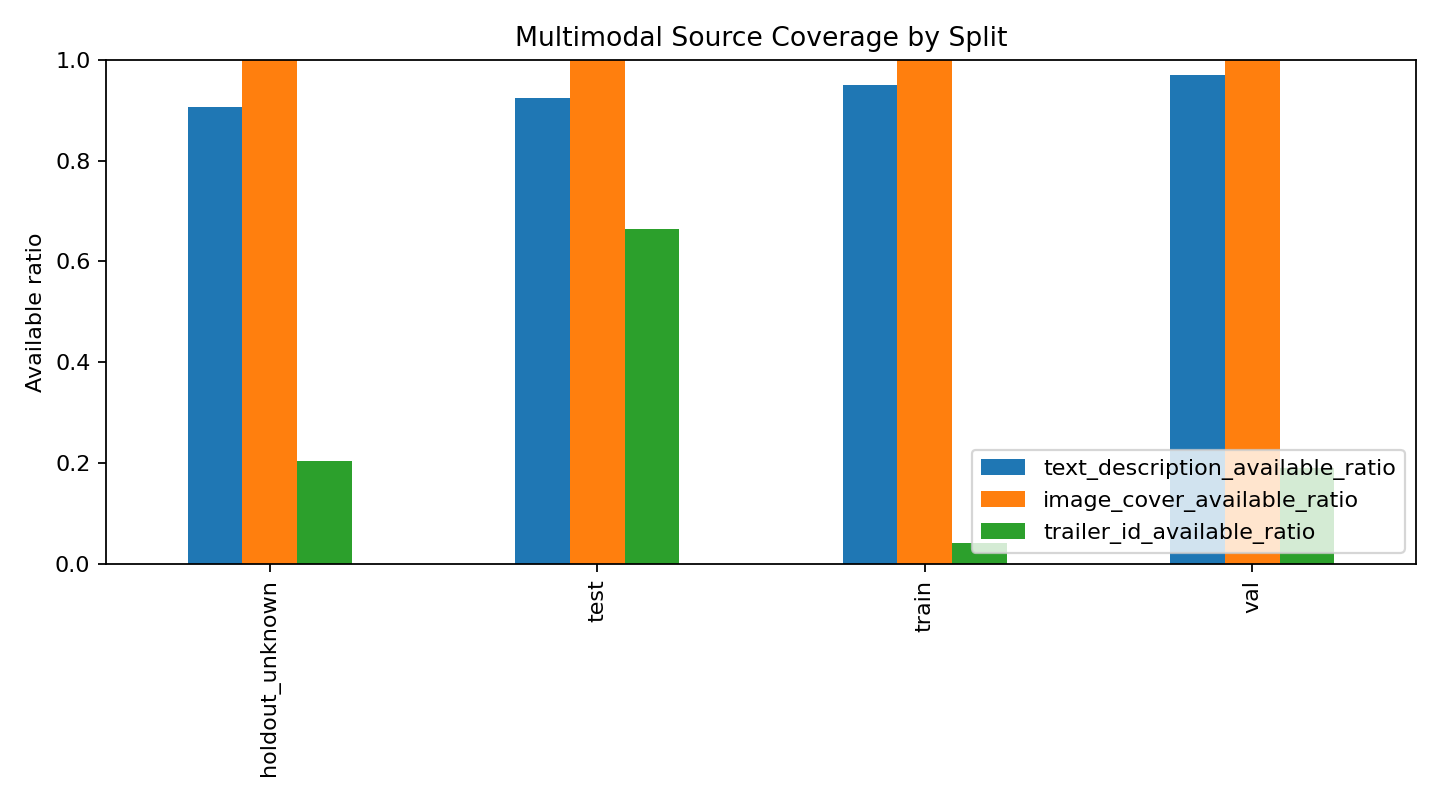
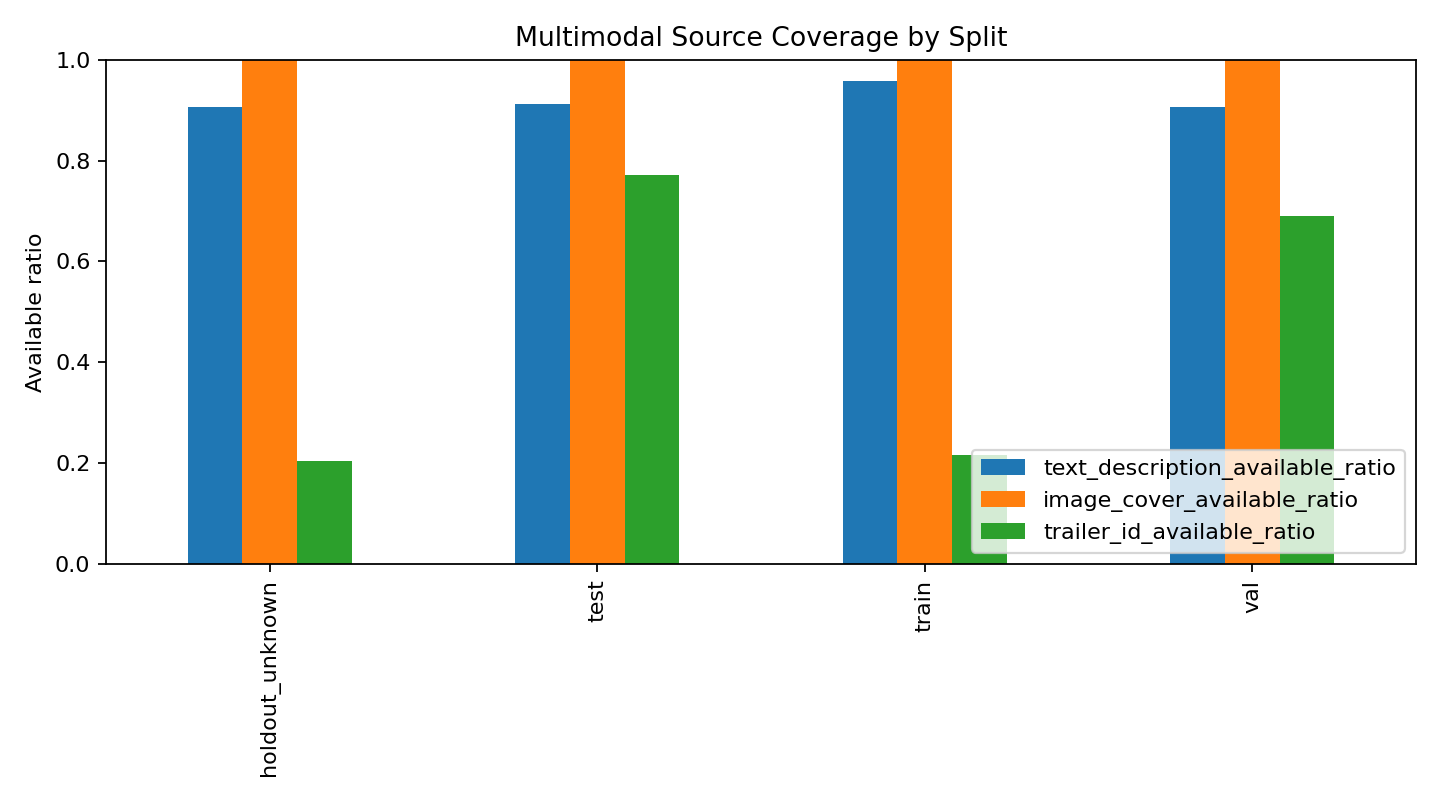
fix(split): rebalance temporal splits by cumulative sample counts
1. Replace quarter-count slicing with chronological cumulative-row splitting to target 70/15/15 proportions without time leakage.
2. Regenerate processed metadata and EDA summaries to reflect the new split strategy and updated distribution diagnostics.
3. Refresh affected RQ figures so split-balance and multimodal-coverage charts match the corrected partitioning.

Made-with: Cursor

diff --git a/scripts/build_processed_dataset.py b/scripts/build_processed_dataset.py
@@ -172,25 +172,47 @@ def _add_popularity_quarter_target(df: pd.DataFrame) -> dict:
 def _apply_pre_release_temporal_split(df: pd.DataFrame) -> dict:
     known = df[df["release_year"].notna() & df["release_quarter"].notna()].copy()
     known["quarter_index"] = known["release_year"].astype(int) * 10 + known["release_quarter"].astype(int)
-    unique_quarters = sorted(known["quarter_index"].dropna().unique().tolist())
-
-    if not unique_quarters:
+    quarter_counts = (
+        known.groupby("quarter_index", as_index=False)
+        .size()
+        .sort_values("quarter_index")
+        .reset_index(drop=True)
+    )
+    if quarter_counts.empty:
         df["split_pre_release"] = "unknown"
-        return {"train_quarters": 0, "val_quarters": 0, "test_quarters": 0}
+        return {
+            "strategy": "chronological_cumulative_rows",
+            "train_quarters": 0,
+            "val_quarters": 0,
+            "test_quarters": 0,
+        }
 
-    total = len(unique_quarters)
-    train_n = max(1, int(total * SPLIT_RATIOS["train"]))
-    val_n = max(1, int(total * SPLIT_RATIOS["val"]))
-    if train_n + val_n >= total:
-        val_n = 1
-        train_n = max(1, total - 2)
-    test_n = max(1, total - train_n - val_n)
-    if train_n + val_n + test_n > total:
-        test_n = total - train_n - val_n
+    total_rows = int(quarter_counts["size"].sum())
+    quarter_counts["cumsum_rows"] = quarter_counts["size"].cumsum()
+    quarter_counts["cumsum_ratio"] = quarter_counts["cumsum_rows"] / max(total_rows, 1)
 
-    train_quarters = set(unique_quarters[:train_n])
-    val_quarters = set(unique_quarters[train_n : train_n + val_n])
-    test_quarters = set(unique_quarters[train_n + val_n :])
+    train_cut = SPLIT_RATIOS["train"]
+    val_cut = SPLIT_RATIOS["train"] + SPLIT_RATIOS["val"]
+
+    train_mask = quarter_counts["cumsum_ratio"] <= train_cut
+    if not train_mask.any():
+        train_mask.iloc[0] = True
+    train_end_idx = quarter_counts[train_mask].index.max()
+
+    val_mask = (quarter_counts.index > train_end_idx) & (quarter_counts["cumsum_ratio"] <= val_cut)
+    if not val_mask.any() and train_end_idx + 1 < len(quarter_counts):
+        val_mask.iloc[train_end_idx + 1] = True
+    val_end_idx = quarter_counts[val_mask].index.max() if val_mask.any() else train_end_idx
+
+    train_quarters = set(quarter_counts.loc[:train_end_idx, "quarter_index"].tolist())
+    val_quarters = set(quarter_counts.loc[train_end_idx + 1 : val_end_idx, "quarter_index"].tolist())
+    test_quarters = set(quarter_counts.loc[val_end_idx + 1 :, "quarter_index"].tolist())
+
+    if not test_quarters and val_quarters:
+        # Keep chronological integrity while ensuring non-empty test split.
+        last_val = max(val_quarters)
+        val_quarters.remove(last_val)
+        test_quarters.add(last_val)
 
     df["split_pre_release"] = "unknown"
     df.loc[known.index, "split_pre_release"] = "test"
@@ -205,9 +227,11 @@ def _apply_pre_release_temporal_split(df: pd.DataFrame) -> dict:
     )
 
     return {
+        "strategy": "chronological_cumulative_rows",
         "train_quarters": len(train_quarters),
         "val_quarters": len(val_quarters),
         "test_quarters": len(test_quarters),
+        "target_ratios": SPLIT_RATIOS,
         "split_counts": [
             {"split": str(row["split"]), "count": int(row["count"])}
             for _, row in split_counts.iterrows()

diff --git a/data/eda/rq_eda_summary.md b/data/eda/rq_eda_summary.md
@@ -1,6 +1,6 @@
 # RQ-oriented EDA Summary
 
-- Generated at (UTC): `2026-04-23T08:05:51.662201+00:00`
+- Generated at (UTC): `2026-04-23T08:32:08.980843+00:00`
 - Raw rows: `20324`
 - Processed rows: `20324`
 
@@ -16,15 +16,15 @@
 - Genres available ratio: `1.0`
 - Studios non-empty ratio: `0.8137669750049203`
 - Genres non-empty ratio: `0.8686282227907892`
-- Split `test` rows: `9110`
-- Split `val` rows: `5440`
-- Split `train` rows: `4831`
+- Split `train` rows: `13376`
+- Split `test` rows: `3087`
+- Split `val` rows: `2918`
 - Split `holdout_unknown` rows: `943`
 
 ### Popularity Bucket Balance by Split
-- `test`: {'cold_0_25': 0.24785949506037322, 'hot_50_75': 0.24939626783754115, 'top_75_100': 0.25170142700329307, 'warm_25_50': 0.25104281009879253}
-- `train`: {'cold_0_25': 0.23369902711653903, 'hot_50_75': 0.24259987580211137, 'top_75_100': 0.26950941833988823, 'warm_25_50': 0.25419167874146137}
-- `val`: {'cold_0_25': 0.24669117647058825, 'hot_50_75': 0.24926470588235294, 'top_75_100': 0.253125, 'warm_25_50': 0.2509191176470588}
+- `test`: {'cold_0_25': 0.24813735017816652, 'hot_50_75': 0.2491091674765144, 'top_75_100': 0.2520246193715581, 'warm_25_50': 0.25072886297376096}
+- `train`: {'cold_0_25': 0.24222488038277512, 'hot_50_75': 0.24686004784688995, 'top_75_100': 0.258747009569378, 'warm_25_50': 0.25216806220095694}
+- `val`: {'cold_0_25': 0.24777244688142563, 'hot_50_75': 0.24982864976010966, 'top_75_100': 0.25119945167923236, 'warm_25_50': 0.25119945167923236}
 
 ## RQ2 Proxy (Multimodal Readiness)
 
@@ -34,6 +34,6 @@
 
 ### Multimodal Coverage by Split
 - `holdout_unknown`: {'text_description_available_ratio': 0.9066808059384942, 'image_cover_available_ratio': 1.0, 'trailer_id_available_ratio': 0.2046659597030753}
-- `test`: {'text_description_available_ratio': 0.9237102085620198, 'image_cover_available_ratio': 1.0, 'trailer_id_available_ratio': 0.6647639956092206}
-- `train`: {'text_description_available_ratio': 0.9507348375077623, 'image_cover_available_ratio': 1.0, 'trailer_id_available_ratio': 0.04160629269302422}
-- `val`: {'text_description_available_ratio': 0.9694852941176471, 'image_cover_available_ratio': 1.0, 'trailer_id_available_ratio': 0.19117647058823528}
+- `test`: {'text_description_available_ratio': 0.9115646258503401, 'image_cover_available_ratio': 1.0, 'trailer_id_available_ratio': 0.7719468739876904}
+- `train`: {'text_description_available_ratio': 0.9586572966507177, 'image_cover_available_ratio': 1.0, 'trailer_id_available_ratio': 0.21680622009569378}
+- `val`: {'text_description_available_ratio': 0.9064427690198766, 'image_cover_available_ratio': 1.0, 'trailer_id_available_ratio': 0.6901987662782728}

diff --git a/data/eda/target_engineering_summary.md b/data/eda/target_engineering_summary.md
@@ -12,19 +12,19 @@
 
 ## Temporal Pre-release Split
 
-- Train quarters: `209`
-- Val quarters: `44`
-- Test quarters: `46`
-- `test` rows: 9110
-- `val` rows: 5440
-- `train` rows: 4831
+- Train quarters: `269`
+- Val quarters: `14`
+- Test quarters: `16`
+- `train` rows: 13376
+- `test` rows: 3087
+- `val` rows: 2918
 - `unknown` rows: 943
 
 ## Unknown Split Policy
 
 - Policy: `exclude_unknown_from_model_splits`
 - Excluded unknown rows from model splits: `943`
-- Effective `test` rows: 9110
-- Effective `val` rows: 5440
-- Effective `train` rows: 4831
+- Effective `train` rows: 13376
+- Effective `test` rows: 3087
+- Effective `val` rows: 2918
 - Effective `holdout_unknown` rows: 943
